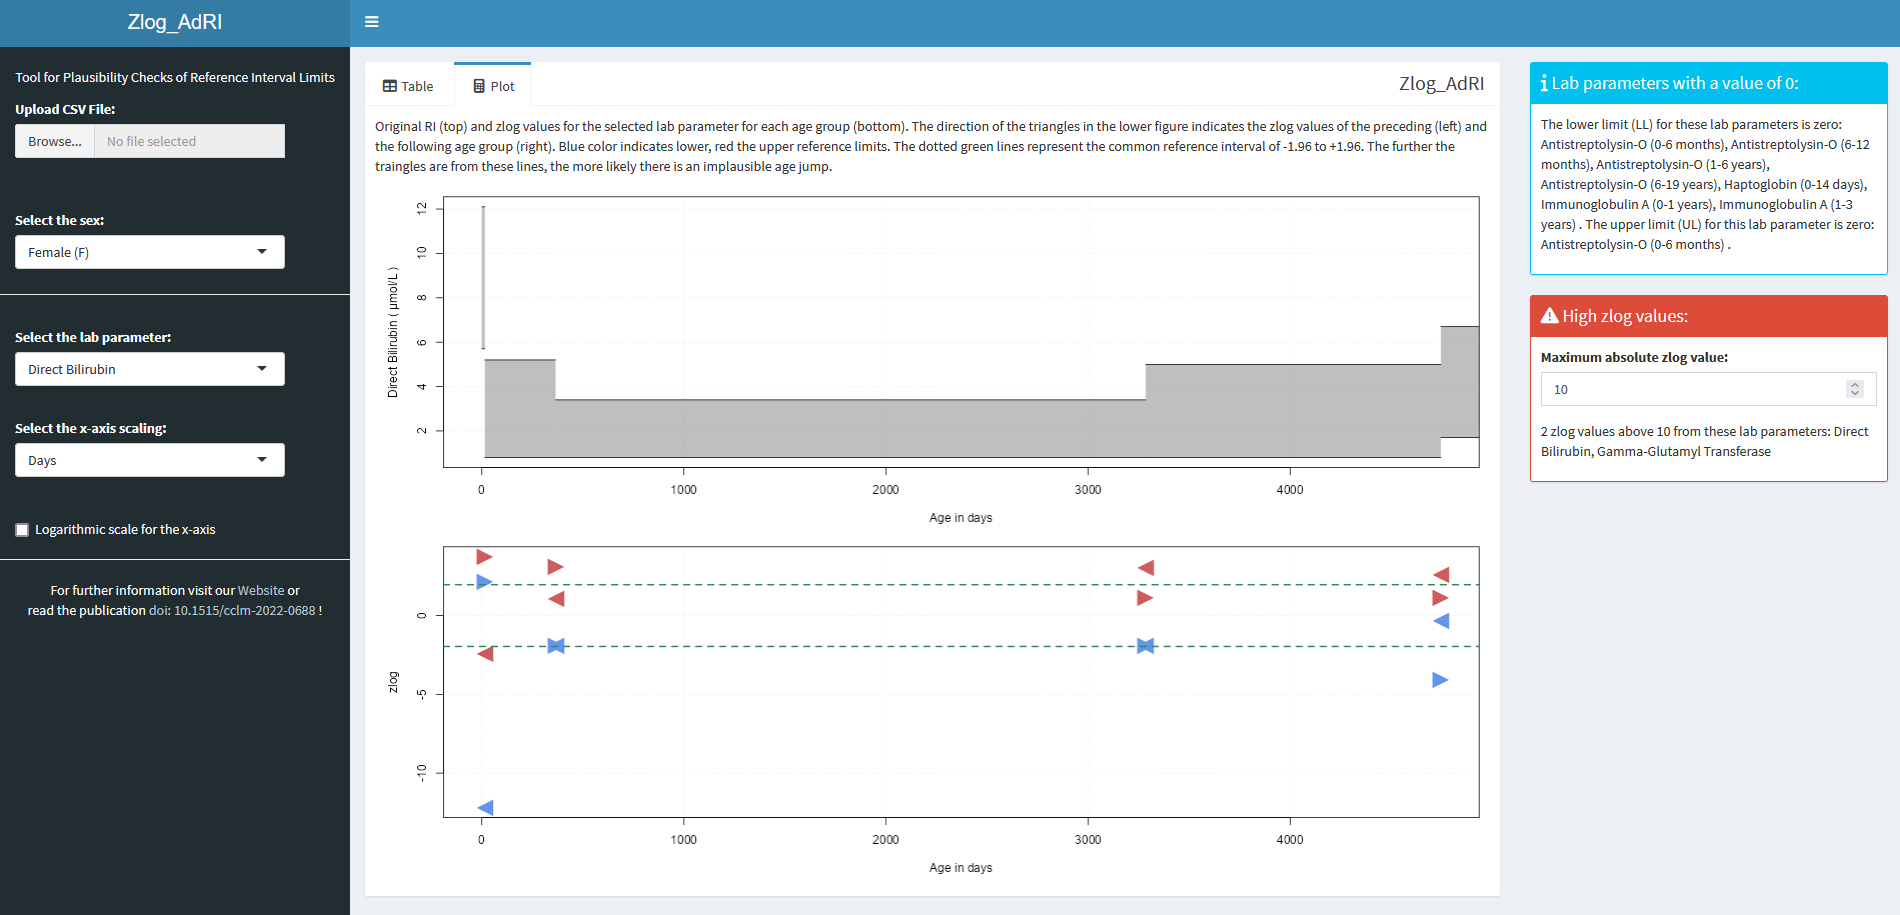
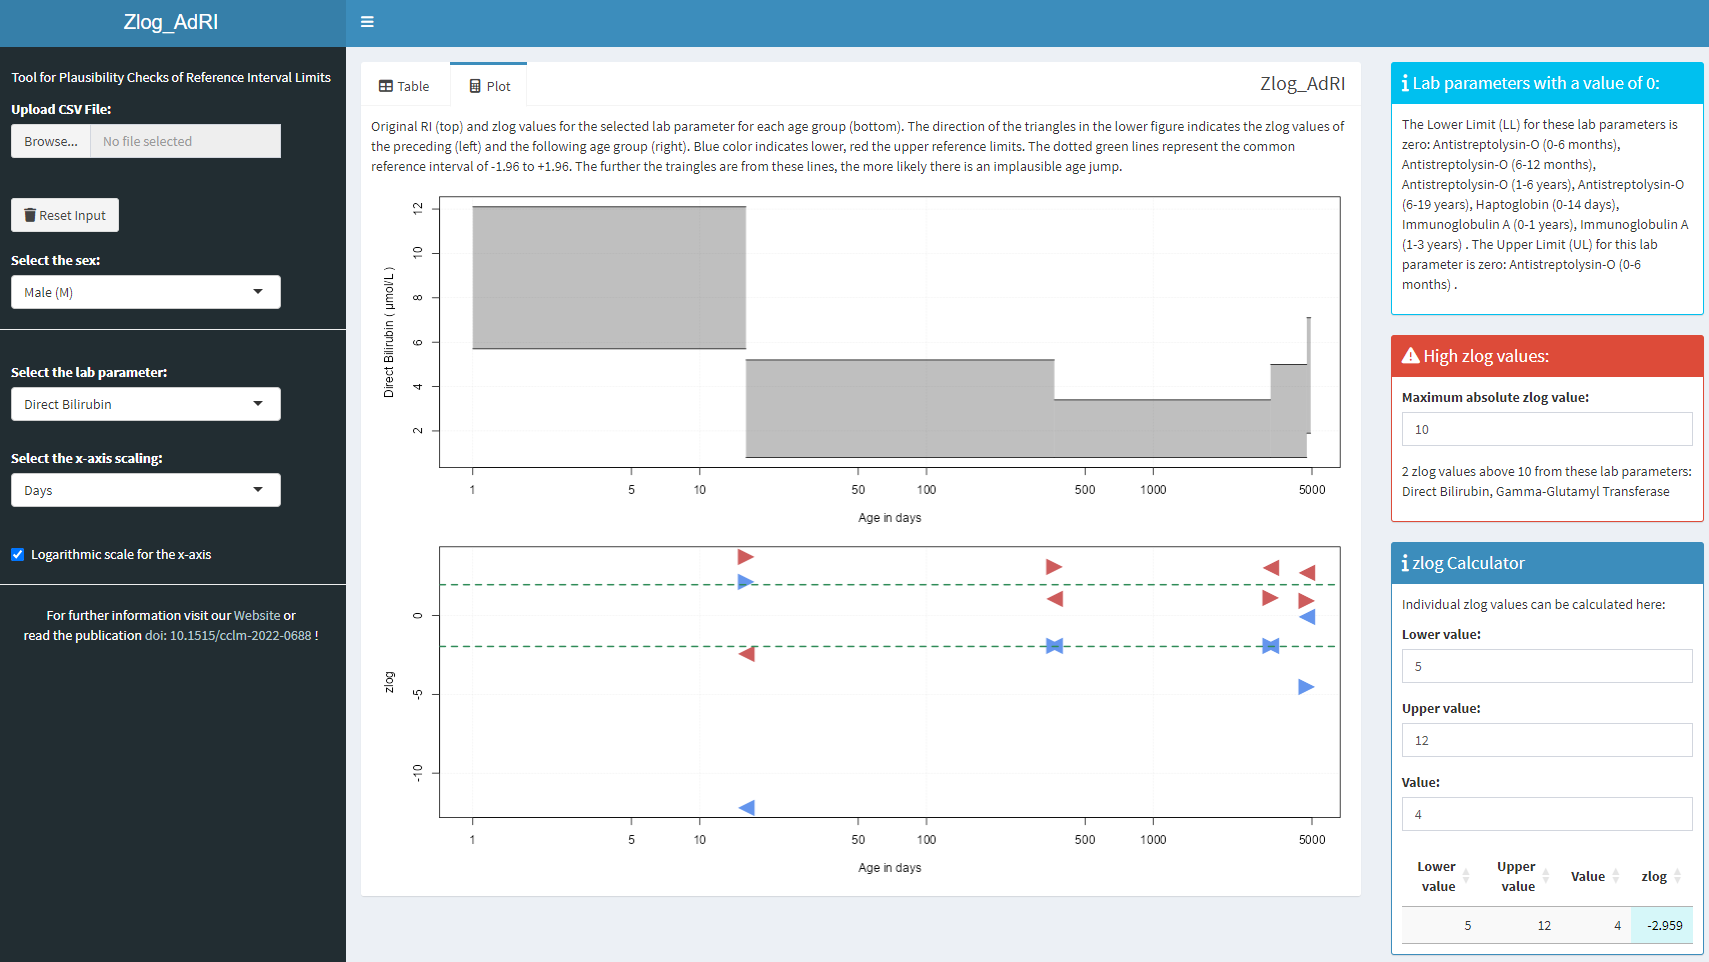
Add Reset Button

diff --git a/README.md b/README.md
@@ -3,7 +3,7 @@
 <img src="www/Logo.svg" width="225px" height="150px" align="right"/>
 
 ![](https://img.shields.io/github/license/SandraKla/Zlog_AdRI.svg)
-![](https://img.shields.io/github/last-commit/SandraKla/Zlog_AdRI/master.svg)
+![](https://img.shields.io/github/last-commit/SandraKla/Zlog_AdRI/main.svg)
 
 This Shiny App computes the zlog values of the preceding and the subsequent reference interval for different analytes for each age group. Many medical reference intervals are not age-dependent and have large jumps between the individual age groups. This should be prevented by considering the zlog value. The lower reference limits (LL) and upper reference limits (UL) can transform any result x into a zlog value using the following equation: 
 
@@ -49,7 +49,7 @@ The package [DT](https://cran.r-project.org/web/packages/DT/index.html) (≥ 0.2
 Data from the [CALIPER-Database](https://caliper.research.sickkids.ca/#/) with age-dependent reference intervals has been preloaded into this Shiny App. For this purpose, the data were brought into the appropriate shape for the analysis from the [Supplemental Table 2](https://academic.oup.com/clinchem/article/58/5/854/5620695#supplementary-data) from the publication: *Closing the Gaps in Pediatric Laboratory Reference Intervals: A CALIPER Database of 40 Biochemical Markers in a Healthy and Multiethnic Population of Children*. 
 
 ### New data
-For new data use the [CALIPER-Dataset](https://github.com/SandraKla/Zlog_AdRI/blob/master/data/CALIPER.csv) as template with the columns: 
+For new data use the [CALIPER-Dataset](https://github.com/SandraKla/Zlog_AdRI/blob/main/data/CALIPER.csv) as template with the columns: 
 
 * **CODE**: Name of the analyte ("Calcium") 
 * **LABUNIT**: Unit of the analyte ("mmol/L")

diff --git a/docs/guide.md b/docs/guide.md
@@ -4,7 +4,7 @@
 
 ### Load new data 
 
-For new data use the [CALIPER-Dataset](https://github.com/SandraKla/Zlog_AdRI/blob/master/data/CALIPER.csv) as template with the columns:
+For new data use the [CALIPER-Dataset](https://github.com/SandraKla/Zlog_AdRI/blob/main/data/CALIPER.csv) as template with the columns:
 
 * **CODE**: Name of the analyte ("Calcium") 
 * **LABUNIT**: Unit of the analyte ("mmol/L")
